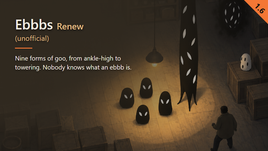
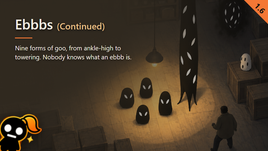
Vitrine: nouveau ModIcon detoure dans Preview.png (coin bas-gauche, +15deg)
Nouvelle consigne globale de vitrine: le ModIcon detoure deborde d'un coin
de Preview.png. Detourage par flood-fill contigu depuis les 4 bords
(tolerance de couleur, jamais un seuillage global): le contour de
personnage n'est jamais touche puisqu'il ne touche jamais les bords.
Script reutilisable: Art/flood-fill-cutout.cjs.

Coin gauche choisi (plus vide que le coin droit pour cette composition).
Valide par Virginie apres plusieurs iterations de position.

Reste a faire: image de vitrine 0 = copie de Preview.png (pas encore
implemente).

Changed region(s): [[0.0299, 0.2384, 0.5075, 0.4768], [0.0, 0.7417, 0.1791, 1.0], [0.209, 0.1325, 0.3881, 0.2119]]

diff --git a/Art/preview.html b/Art/preview.html
@@ -14,12 +14,16 @@ h1 { font-size:46px; font-weight:600; line-height:1.1; letter-spacing:0; }
 p { width:430px; font-size:21px; font-weight:400; line-height:1.45; }
 .badge { position:absolute; right:0; top:0; width:80px; height:80px; background:var(--accent); clip-path:polygon(0 0,100% 0,100% 100%); }
 .version { position:absolute; left:869px; top:27px; transform:translate(-50%,-50%) rotate(45deg); color:var(--badgeInk); font-size:26px; font-weight:700; line-height:1; }
+.icon-corner { position:absolute; width:210px; height:210px; left:-55px; bottom:-50px; transform:rotate(15deg); filter:drop-shadow(0 8px 16px rgb(0 0 0 / .6)); }
+.icon-corner img { width:100%; height:100%; display:block; }
 .background-only .text { visibility:hidden; }
 .background-only .version { visibility:hidden; }
+.background-only .icon-corner { visibility:hidden; }
 </style>
 <div class="scene"></div><div class="veil"></div>
-<div class="text"><h1><span class="strong">Ebbbs</span> <span class="suffix">Renew</span></h1><div class="tag">(unofficial)</div><div class="rule"></div><p>Nine forms of goo, from ankle-high to towering. Nobody knows what an ebbb is.</p></div>
+<div class="text"><h1><span class="strong">Ebbbs</span> <span class="suffix">(Continued)</span></h1><div class="tag" style="height:0;margin:0;overflow:hidden"></div><div class="rule"></div><p>Nine forms of goo, from ankle-high to towering. Nobody knows what an ebbb is.</p></div>
 <div class="badge"></div><div class="version"></div>
+<div class="icon-corner"><img src="ModIcon-cutout.png" alt=""></div>
 <script>
 window.ready = (async () => {
   const palette = await (await fetch('preview-palette.json')).json();
@@ -31,5 +35,6 @@ window.ready = (async () => {
   document.querySelector('.version').textContent=versions[0];
   await document.fonts.ready;
   const img=new Image(); img.src='Preview.png'; await img.decode();
+  const icon=new Image(); icon.src='ModIcon-cutout.png'; await icon.decode();
 })();
 </script></html>
